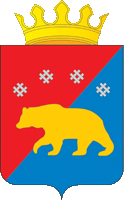
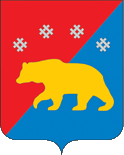
Гербы без корон и одного размера (решение автора)
Claude-Session: https://claude.ai/code/session_01KazEEkJtonusG4KvRZc7eZ

diff --git a/web/sostav.css b/web/sostav.css
@@ -59,7 +59,7 @@
 .mh-pasbox { width: 4.6rem; height: 4.6rem; position: relative; display: grid; place-items: center; }
 .mh-pasbox::before { content: ""; position: absolute; inset: 0; border: 1px solid var(--bronze); transform: rotate(45deg) scale(0.72); }
 .mh-pas { width: 3.2rem; height: 3.2rem; background: var(--bronze); -webkit-mask: var(--pas) center / contain no-repeat; mask: var(--pas) center / contain no-repeat; }
-.mh-gerb { height: 7rem; width: auto; }
+.mh-gerb { height: 7rem; width: 5.6rem; object-fit: contain; }
 .mh-rhomb-pas { display: grid; place-items: center; }
 .mh-rhomb-pas .mh-pas { width: 58%; height: 58%; }
 .mh-strip { height: 12mm; margin: 0 0 0.5rem; background-size: cover; background-position: center 55%; border-top: 1px solid var(--bronze); border-bottom: 1px solid var(--bronze); }
@@ -227,7 +227,7 @@
   .mh { gap: 1rem; }
   .mh-meta { font-size: 0.74rem; }
   .mh-rhomb { width: 29mm; height: 29mm; }
-  .mh-gerb { height: 27mm; }
+  .mh-gerb { height: 27mm; width: 21.6mm; }
   .mh-name { font-size: 1.9rem; }
   .sheet.narrow { max-width: none; }
   .day-cols { flex: 1 1 auto; min-height: 0; }

diff --git a/web/sw.js b/web/sw.js
@@ -1,5 +1,5 @@
 // Офлайн-кэш: сайт работает без сети после первого открытия.
-const CACHE = 'shondi-v18';
+const CACHE = 'shondi-v19';
 const ASSETS = [
   './', 'index.html', 'style.css', 'app.js', 'manifest.webmanifest', 'icon.svg',
   'anbur.html', 'anbur.css', 'anbur.js', 'plashka.js', 'fonts/NotoSansOldPermic-Regular.ttf', 'fonts/Pasy.ttf',

diff --git a/docs/sostav.md b/docs/sostav.md
@@ -103,7 +103,7 @@ CC BY-SA это обязательно и при перепечатке).
 
 - **Гербы** районов — официальные символы (в России не охраняются авторским правом,
   ГК РФ, ст. 1259, п. 6; на Викискладе — общественное достояние или CC0). Использование
-  может регулироваться местными положениями о гербе. Чердынь — герб 2020 г.
+  может регулироваться местными положениями о гербе. Чердынь — герб 2020 г. Гербы — **без корон** (решение автора, 12 ноября 2026): у Косинского, Кудымкарского и Юрлинского районов корона над щитом отрезана; корона Чердыни — внутри щита, часть самого герба. Все гербы — **одного размера**: белые поля обрезаны, на листе каждый вписан в одну и ту же рамку 21,6 × 27 мм.
 - **Звери и виды районов** на листах не показываются (решение автора: фото зверя заменено пасом,
   полосы вида края убраны 12 ноября 2026). Снимки и их записи остаются в репозитории — на случай,
   если понадобятся в игре или книге.
